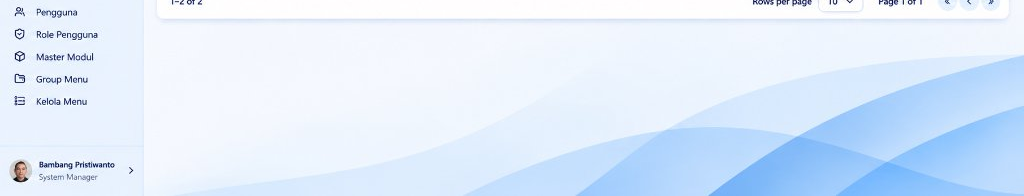
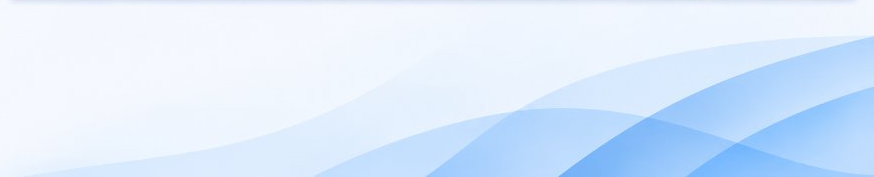
feat(ui,theme): add full dark mode styles and dark bottom wave

diff --git a/src/Framework.Web/wwwroot/desk.css b/src/Framework.Web/wwwroot/desk.css
@@ -483,6 +483,296 @@ aside[data-state][data-collapsible] [data-sidebar="header"] {
 .sidebar-user-btn .who .muted {
   color: #64748b !important;
 }
+
+/* ==========================================================================
+   TEMA GELAP (DARK MODE) - PENGATURAN LENGKAP UNTUK DESK, HEADER & KOMPONEN
+   ========================================================================== */
+
+/* 1. Header & Sidebar Header Dark Gradient */
+.dark .app-header {
+  background: linear-gradient(90deg, #0b1120 0%, #111a2e 45%, #16223d 75%, #10182b 100%) !important;
+  color: #ffffff !important;
+  border-bottom: 1px solid rgba(255, 255, 255, 0.08) !important;
+  box-shadow: 0 2px 10px -2px rgba(0, 0, 0, 0.5) !important;
+}
+
+.dark [data-sidebar="header"] {
+  background: #0b1120 !important;
+  color: #ffffff !important;
+  border-bottom: 1px solid rgba(255, 255, 255, 0.08) !important;
+  border-right: none !important;
+}
+
+.dark .header-left .module-pill {
+  background: rgba(255, 255, 255, 0.1) !important;
+  border-color: rgba(255, 255, 255, 0.18) !important;
+  color: #ffffff !important;
+}
+.dark .header-left .module-pill:hover {
+  background: rgba(255, 255, 255, 0.18) !important;
+}
+
+.dark .app-header .header-search {
+  background: rgba(255, 255, 255, 0.08) !important;
+  border: 1px solid rgba(255, 255, 255, 0.12) !important;
+  box-shadow: 0 2px 6px -1px rgba(0, 0, 0, 0.3) !important;
+}
+.dark .app-header .header-search:focus-within {
+  background: rgba(255, 255, 255, 0.14) !important;
+  border-color: #3b82f6 !important;
+  box-shadow: 0 0 0 3px rgba(59, 130, 246, 0.25) !important;
+}
+.dark .app-header .header-search-icon {
+  color: #94a3b8 !important;
+}
+.dark .app-header .header-search-input {
+  color: #f8fafc !important;
+}
+.dark .app-header .header-search-input::placeholder {
+  color: #94a3b8 !important;
+}
+
+/* 2. Wave Latar Belakang Bawah dalam Dark Mode */
+.dark .bottom-full-wave {
+  background-image: linear-gradient(180deg, var(--background) 0%, transparent 22%), url('/_content/Framework.Web/img/bottom-wave-dark.png') !important;
+  background-repeat: no-repeat !important;
+  background-size: 100% 100% !important;
+  background-position: left bottom !important;
+  opacity: 0.88 !important;
+}
+
+/* 3. Sidebar Dark Mode */
+.dark aside[data-state][data-collapsible],
+.dark [data-sidebar="sidebar"] {
+  background-color: var(--sidebar, #0b1120) !important;
+  border-right: 1px solid rgba(255, 255, 255, 0.08) !important;
+}
+
+.dark [data-sidebar="group-label"] {
+  color: #60a5fa !important;
+}
+
+.dark [data-sidebar="menu-button"] {
+  color: #94a3b8 !important;
+}
+
+.dark [data-sidebar="menu-button"] svg {
+  color: #60a5fa !important;
+}
+
+.dark [data-sidebar="menu-button"]:hover {
+  background-color: rgba(59, 130, 246, 0.15) !important;
+  color: #ffffff !important;
+}
+
+.dark [data-sidebar="menu-button"]:hover svg {
+  color: #93c5fd !important;
+}
+
+.dark [data-sidebar="menu-button"].active,
+.dark [data-sidebar="menu-button"][aria-current="page"],
+.dark [data-sidebar="menu-button"][data-active="true"] {
+  background-color: rgba(37, 99, 235, 0.28) !important;
+  color: #93c5fd !important;
+  font-weight: 600 !important;
+}
+
+.dark [data-sidebar="menu-button"].active svg,
+.dark [data-sidebar="menu-button"][aria-current="page"] svg,
+.dark [data-sidebar="menu-button"][data-active="true"] svg {
+  color: #93c5fd !important;
+}
+
+.dark .module-switch-btn {
+  background-color: rgba(37, 99, 235, 0.28) !important;
+  color: #93c5fd !important;
+}
+
+.dark .sidebar-user-btn:hover {
+  background-color: rgba(255, 255, 255, 0.08) !important;
+}
+
+.dark .sidebar-user-btn .who span:first-child {
+  color: #f1f5f9 !important;
+}
+
+.dark .sidebar-user-btn .who .muted {
+  color: #94a3b8 !important;
+}
+
+/* 4. Breadcrumbs Trail Dark Mode */
+.dark .crumb-home {
+  color: #60a5fa !important;
+}
+.dark .crumb-sep {
+  color: #64748b !important;
+}
+.dark .crumb-link {
+  color: #60a5fa !important;
+}
+.dark .crumb-active {
+  color: #f1f5f9 !important;
+}
+
+/* 5. ListPage Header & Action Buttons */
+.dark .list-title h1 {
+  color: #f8fafc !important;
+}
+.dark .list-title-sub {
+  color: #94a3b8 !important;
+}
+.dark .list-title-icon-badge {
+  background: #2563eb !important;
+  color: #ffffff !important;
+}
+
+.dark .btn-action-delete {
+  background: rgba(239, 68, 68, 0.18) !important;
+  color: #fca5a5 !important;
+  border: 1px solid rgba(239, 68, 68, 0.35) !important;
+}
+.dark .btn-action-delete:hover {
+  background: rgba(239, 68, 68, 0.28) !important;
+  color: #fee2e2 !important;
+}
+
+.dark .btn-action-import {
+  background: #1e293b !important;
+  color: #cbd5e1 !important;
+  border: 1px solid #334155 !important;
+}
+.dark .btn-action-import:hover {
+  background: #273549 !important;
+  color: #f8fafc !important;
+}
+
+.dark .btn-action-new {
+  background: #2563eb !important;
+  color: #ffffff !important;
+}
+.dark .btn-action-new:hover {
+  background: #1d4ed8 !important;
+}
+
+/* 6. Filter & Search Controls pada Halaman List */
+.dark .filters .filter > span {
+  color: #93c5fd !important;
+}
+
+.dark .filters input,
+.dark .filters select,
+.dark .filters button[role="combobox"],
+.dark .filters [class*="bb:rounded-md"] {
+  background-color: #1e293b !important;
+  border: 1px solid #334155 !important;
+  color: #f8fafc !important;
+  box-shadow: 0 1px 3px 0 rgba(0, 0, 0, 0.3) !important;
+}
+
+.dark .filters input:focus,
+.dark .filters select:focus,
+.dark .filters button[role="combobox"]:focus {
+  border-color: #3b82f6 !important;
+  box-shadow: 0 0 0 3px rgba(59, 130, 246, 0.25) !important;
+}
+
+.dark .filters [class*="bb:inline-flex"] button,
+.dark .filters button {
+  background-color: #1e293b !important;
+  border: 1px solid #334155 !important;
+  color: #93c5fd !important;
+}
+
+.dark .filters [class*="bb:inline-flex"] button:hover,
+.dark .filters button:hover {
+  background-color: #273549 !important;
+  color: #ffffff !important;
+}
+
+.dark .filter-search-box {
+  background-color: #1e293b !important;
+  border: 1px solid #334155 !important;
+}
+.dark .filter-search-box:focus-within {
+  border-color: #3b82f6 !important;
+  box-shadow: 0 0 0 3px rgba(59, 130, 246, 0.2) !important;
+}
+.dark .filter-search-box input {
+  color: #f8fafc !important;
+}
+.dark .filter-search-box input::placeholder {
+  color: #94a3b8 !important;
+}
+.dark .filter-search-icon {
+  color: #60a5fa !important;
+}
+
+.dark .filter-date-box {
+  background-color: #1e293b !important;
+  border: 1px solid #334155 !important;
+}
+.dark .filter-date-btn {
+  color: #cbd5e1 !important;
+}
+.dark .filter-date-icon {
+  color: #60a5fa !important;
+}
+
+.dark .filter-columns-btn {
+  background-color: #1e293b !important;
+  border: 1px solid #334155 !important;
+  color: #cbd5e1 !important;
+}
+.dark .filter-columns-btn:hover {
+  background-color: #273549 !important;
+  color: #f8fafc !important;
+}
+
+/* 7. Tabel Data Dark Mode */
+.dark .table-wrap {
+  border: 1px solid #334155 !important;
+  box-shadow: 0 4px 14px -2px rgba(0, 0, 0, 0.4) !important;
+}
+
+.dark .table-wrap thead th,
+.dark table.data thead th {
+  background-color: #1e293b !important;
+  color: #93c5fd !important;
+  border-bottom: 1px solid #334155 !important;
+}
+
+.dark table.data tbody tr {
+  border-bottom: 1px solid #1e293b !important;
+}
+
+.dark table.data tbody tr:hover td {
+  background-color: rgba(30, 41, 59, 0.6) !important;
+}
+
+/* 8. Form Inputs (FormPage, EditPage, Dialog) */
+.dark .form-col input,
+.dark .form-col textarea,
+.dark .form-col select,
+.dark .form-col button[role="combobox"] {
+  border: 1px solid #334155 !important;
+  background-color: #1e293b !important;
+  color: #f8fafc !important;
+}
+
+.dark .form-col input:focus,
+.dark .form-col textarea:focus,
+.dark .form-col select:focus,
+.dark .form-col button[role="combobox"]:focus {
+  border-color: #3b82f6 !important;
+  box-shadow: 0 0 0 3px rgba(59, 130, 246, 0.25) !important;
+}
+
+.dark .field-static {
+  background-color: #0f172a !important;
+  border: 1px solid #334155 !important;
+  color: #cbd5e1 !important;
+}
+
 .app-header .user-select { width: 17rem; max-width: 50vw; }
 .app-main { padding: 1.5rem 2rem 4rem; width: 100%; box-sizing: border-box; }
 .brand { display: flex; align-items: center; gap: .6rem; font-weight: 700; min-width: 0; }
